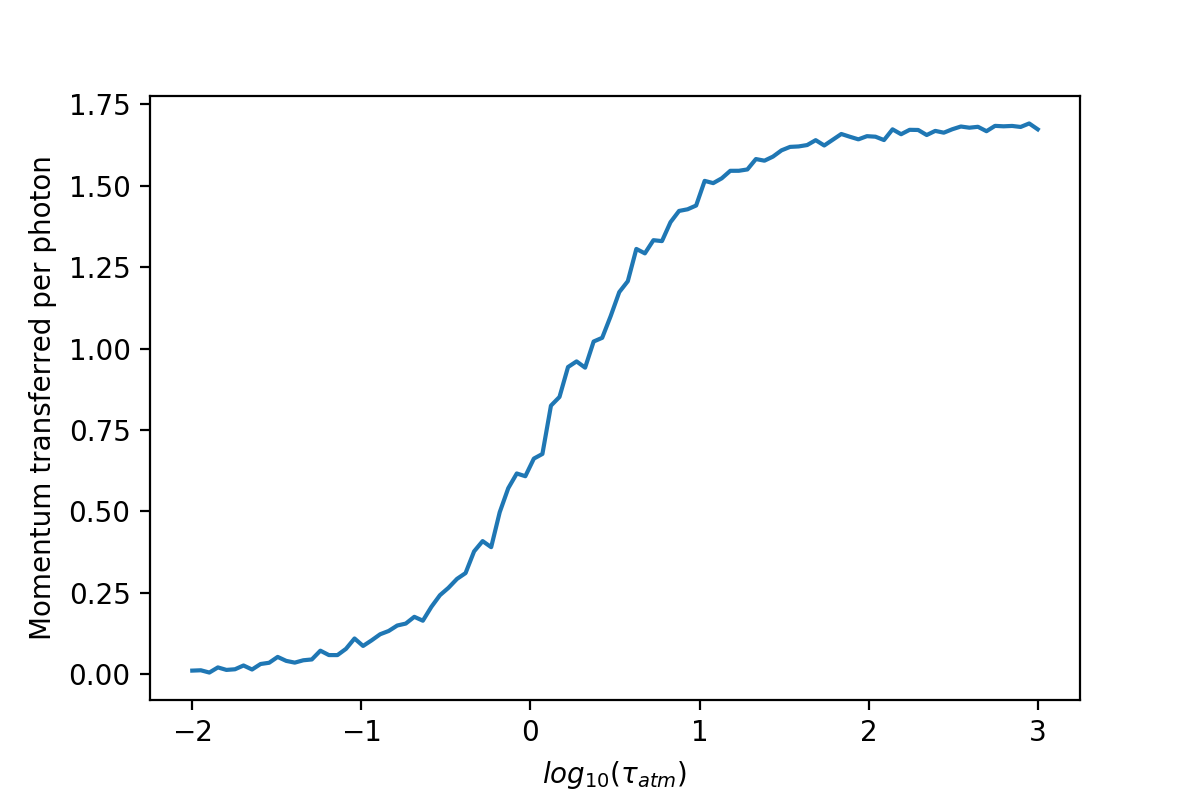
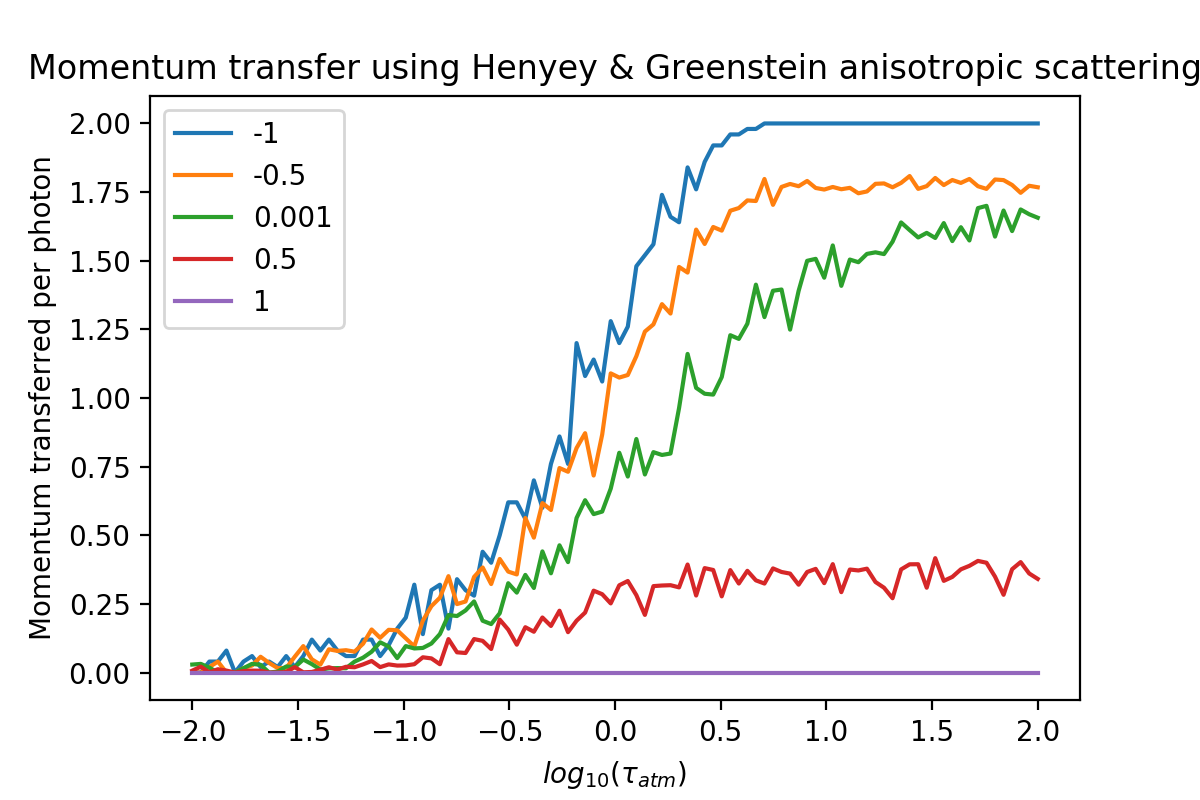
anitsotropic scattering added
Implemented the Heyley-Greenstein anisotropic model, adding a parameter g which ranges from -1 to 1 and weights the scattering to backward or forward scattering.

diff --git a/1D test.py b/1D test.py
@@ -4,11 +4,11 @@ import matplotlib.pyplot as plt
 
 # atmosphere depth, numpy array from 0 to 10 with N_atm evenly spaced samples
 N_atm = 100
-tau_atm = np.logspace(-2,3,N_atm,base=10)
+tau_atm = np.logspace(-2,2,N_atm,base=10)
 # tau_atm = np.array([0.01,0.03,0.1,0.3,1,3,10])
 
 # The number of photons to simulate for each optical depth
-N_photons = 1000
+N_photons = 100
 
 # # Number of bins in the mu and phi directions.
 # # mu ranges from 0 to 1 and phi ranges from 0 to 2pi
@@ -20,6 +20,9 @@ N_photons = 1000
 tau_i = [0,0,0]
 mu_i = 1
 phi_i = 0
+
+g = [-1,-0.5,0.001,0.5,1]
+a = 0
 
 # We will use units of h*nu/c = 1, We can change this or iterate over a list of frequencies later.
 photon_momentum = 1
@@ -46,40 +49,58 @@ def TakeStep(tau,mu,phi):
     return tau 
 
 
-def Scatter():
+def Scatter(g):
     # decide on a new random direction to scatter in.
-    mu = 2*np.random.rand() - 1
+    s = 2*np.random.rand() - 1
+    
+    # This is the Henyey Greenstein relation for anisotropic scattering.
+    mu = 1/(2*g)*(1+g**2-((1-g**2)/(1+g*s))**2)
     phi = 2*np.pi*np.random.rand()
     
     return mu, phi
 
-# Loop over each atmospheric depth.  atm will be the atmospheric depth, atm_i is an iteration variable.
-for atm_i,atm in enumerate(tau_atm):
-    # Loop over each photon
-    for phot_i in range(N_photons):
-        # Set the initial conditions for the photons
-        tau = tau_i[:]
-        mu = mu_i
-        phi = phi_i
-        
-        # Keep making steps until the photon is absorbed or transmitted.
-        while 1:
-            tau = TakeStep(tau,mu,phi)
-           
-            if tau[2] >= atm:
-                momentum_transfer[atm_i] -= mu
-                break
-            elif tau[2] < 0:
-                N_absorbed[atm_i] += 1
-                momentum_transfer[atm_i] -= mu
-                break
-            
-            # If the photon did not escape or get absorbed decide on a new scattering angle.
-            mu,phi = Scatter()
+def PerformRun(g):
+    # Total momentum
+    momentum_i = photon_momentum*N_photons
 
-# Calculate the actual fraction transmitted and the theoretical line for comparison.
-frac_transmitted = 1-N_absorbed/N_photons
-theory = 1/(1+tau_atm/2)
+    momentum_transfer = momentum_i*np.ones_like(tau_atm)
+    
+    # Loop over each atmospheric depth.  atm will be the atmospheric depth, atm_i is an iteration variable.
+    for atm_i,atm in enumerate(tau_atm):
+        # Loop over each photon
+        for phot_i in range(N_photons):
+            # Set the initial conditions for the photons
+            tau = tau_i[:]
+            mu = mu_i
+            phi = phi_i
+            
+            # Keep making steps until the photon is absorbed or transmitted.
+            while 1:
+                tau = TakeStep(tau,mu,phi)
+               
+                if tau[2] >= atm:
+                    momentum_transfer[atm_i] -= mu
+                    break
+                elif tau[2] < 0:
+                    N_absorbed[atm_i] += 1
+                    momentum_transfer[atm_i] -= mu
+                    break
+                
+                # If the photon did not escape or get absorbed decide on a new scattering angle.
+                mu,phi = Scatter(g)
+    
+    # Calculate the actual fraction transmitted and the theoretical line for comparison.
+    frac_transmitted = 1-N_absorbed/N_photons
+    theory = 1/(1+tau_atm/2)
+    
+    return frac_transmitted, theory, momentum_transfer
+
+gdata = []
+
+for each in g:
+    frac_transmitted, theory, momentum_transfer = PerformRun(each)
+    # gdata.append([frac_transmitted, theory, momentum_transfer])
+    plt.plot(np.log10(tau_atm),momentum_transfer/N_photons,label=each)
 
 # Plot data
 # plt.plot(np.log10(tau_atm), frac_transmitted, label="Simulation data")
@@ -89,7 +110,9 @@ theory = 1/(1+tau_atm/2)
 # plt.ylabel('Fraction of transmitted photons')
 # plt.savefig('1D_Plot.png',dpi=200)
 
-plt.plot(np.log10(tau_atm),momentum_transfer/N_photons)
+
 plt.xlabel(r'$log_{10}(\tau_{atm})$')
 plt.ylabel('Momentum transferred per photon')
+plt.title('Momentum transfer using Henyey & Greenstein anisotropic scattering')
+plt.legend()
 plt.savefig('1D_Momentum_Plot.png',dpi=200)
